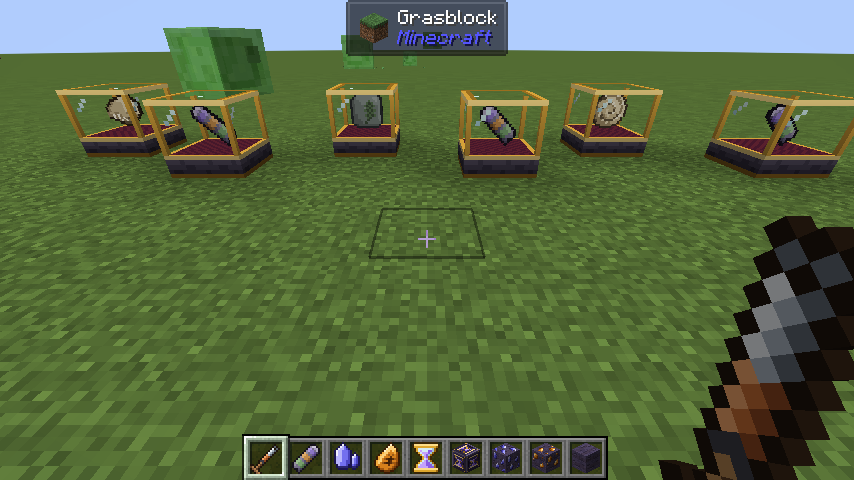
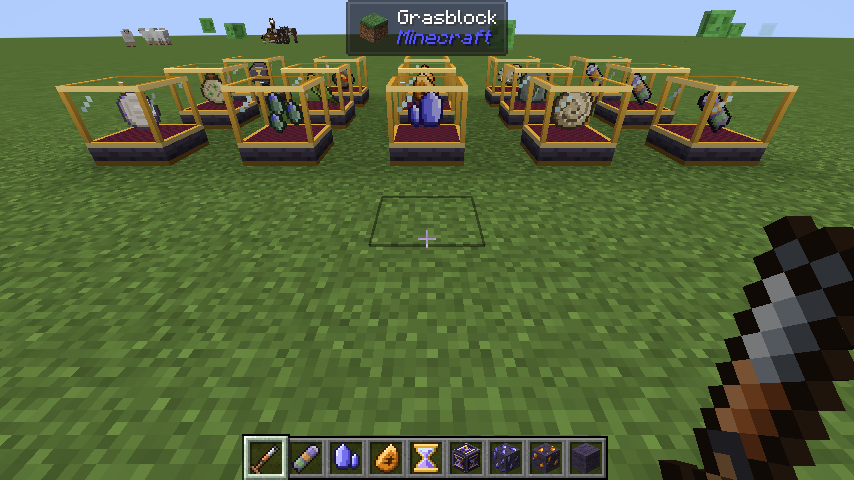
Museum: Prüfrunde 1 umgesetzt
Nur eigene Exponate (Tag strata_exhibit, Abfrage pro Versionsgruppe: getTags bzw.
ab 26.1 entityTags), fremde Item-Displays bleiben unberührt. Sammlung jetzt 15
Exponate (pro Epoche Bohrkern, Fossil, Rohstoff, Pflanze; dazu Calcitschuppe,
Sporenbeutel, Kodex-Fragment). Vollständiges Museum gibt dauerhaft +10 % Zeit in
allen Epochen. Rechtsklick mit leerer Hand auf eine leere Vitrine zeigt den Stand.

Claude-Session: https://claude.ai/code/session_01Ctsg8SxXVHQPATnSMNydJr

diff --git a/epochs/src/shared/java/dev/strata/epochs/SelfTest.java b/epochs/src/shared/java/dev/strata/epochs/SelfTest.java
@@ -758,7 +758,7 @@ final class SelfTest {
     private static int testMuseum(MinecraftServer server) {
         ServerLevel level = server.overworld();
         int cx = 8800, cz = 8800;
-        for (int k = 0; k < 12 && !cleanSite(level, cx, cz, 6); k++) cz += 160;
+        for (int k = 0; k < 12 && !cleanSite(level, cx, cz, 9); k++) cz += 160;
         int y = level.getHeight(net.minecraft.world.level.levelgen.Heightmap.Types.MOTION_BLOCKING_NO_LEAVES, cx, cz);
         var player = net.neoforged.neoforge.common.util.FakePlayerFactory.get(level,
                 new com.mojang.authlib.GameProfile(java.util.UUID.nameUUIDFromBytes("strata_museum_test".getBytes()), "strata_museum_test"));
@@ -770,10 +770,15 @@ final class SelfTest {
             exhibits.add(CoreSamples.create(StrataEpochs.id(e)));
             exhibits.add(new net.minecraft.world.item.ItemStack(FossilPrep.fossilFor(StrataEpochs.id(e)), 2));
         }
+        for (var item : List.of(EpochsContent.CRYSTAL_QUARTZ, EpochsContent.QUARTZ_THISTLE_SEEDS, EpochsContent.AMBER_SHARD,
+                EpochsContent.RESIN_FERN_SPORES, EpochsContent.EMBER_SHARD, EpochsContent.EMBER_TUBER,
+                EpochsContent.CALCITE_SCALE, EpochsContent.SPORE_SAC, EpochsContent.CODEX_FRAGMENT)) {
+            exhibits.add(new net.minecraft.world.item.ItemStack(item.get()));
+        }
         List<BlockPos> cases = new ArrayList<>();
         boolean placed = true;
         for (int i = 0; i < exhibits.size(); i++) {
-            BlockPos pos = new BlockPos(cx - 5 + 2 * i, y, cz);
+            BlockPos pos = new BlockPos(cx - 4 + 2 * (i % 5), y, cz - 2 + 2 * (i / 5));   // 5 x 3, alles in Reichweite
             level.setBlockAndUpdate(pos, EpochsContent.DISPLAY_CASE.get().defaultBlockState());
             cases.add(pos);
             var held = exhibits.get(i).copy();
@@ -785,18 +790,31 @@ final class SelfTest {
             }
         }
         boolean occupied = !DisplayCases.put(level, cases.get(0), new net.minecraft.world.item.ItemStack(EpochsContent.CRYSTAL_QUARTZ.get()));
-        boolean complete = requirements.size() == 6 && DisplayCases.present(level, cases.get(0)).size() == 6;
+        boolean complete = requirements.size() == 15 && DisplayCases.present(level, cases.get(0)).size() == 15;
+        double bonusBefore = Solidification.timeBonus(player);
         DisplayCases.checkMuseum(player, level, cases.get(0));
-        boolean codex = StrataAPI.hasNode(player, StrataEpochs.id("museum"));
+        boolean codex = StrataAPI.hasNode(player, StrataEpochs.id("museum"))
+                && Math.abs(Solidification.timeBonus(player) - bonusBefore - DisplayCases.MUSEUM_BONUS) < 1e-9;
+
+        // Fremdes Item-Display (ohne Tag) in einer leeren Vitrine: wird weder gefunden noch entfernt.
+        BlockPos spare = new BlockPos(cx + 9, y, cz);
+        level.setBlockAndUpdate(spare, EpochsContent.DISPLAY_CASE.get().defaultBlockState());
+        Transplanter.command(level, "summon minecraft:item_display " + (spare.getX() + 0.5) + " " + (spare.getY() + 0.6) + " "
+                + (spare.getZ() + 0.5) + " {Tags:[\"strata_foreign_test\"]}");
+        boolean foreign = DisplayCases.find(level, spare) == null && DisplayCases.take(level, spare).isEmpty()
+                && level.getEntitiesOfClass(net.minecraft.world.entity.Display.ItemDisplay.class,
+                        new net.minecraft.world.phys.AABB(spare)).size() == 1;
+        Transplanter.command(level, "kill @e[type=minecraft:item_display,tag=strata_foreign_test]");
+        level.setBlockAndUpdate(spare, net.minecraft.world.level.block.Blocks.AIR.defaultBlockState());
 
         var taken = DisplayCases.take(level, cases.get(0));
         boolean takeOut = CoreSamples.epochOf(taken).isPresent() && DisplayCases.find(level, cases.get(0)) == null
-                && DisplayCases.present(level, cases.get(1)).size() == 5;
+                && DisplayCases.present(level, cases.get(1)).size() == 14;
         // Abbau: Exponat fällt heraus, das Display verschwindet.
         BlockPos last = cases.get(cases.size() - 1);
         level.setBlockAndUpdate(last, net.minecraft.world.level.block.Blocks.AIR.defaultBlockState());
         var drops = level.getEntitiesOfClass(net.minecraft.world.entity.item.ItemEntity.class, new net.minecraft.world.phys.AABB(last).inflate(1.5));
-        boolean dropped = drops.stream().anyMatch(d -> d.getItem().is(FossilPrep.fossilFor(StrataEpochs.id("ash_age"))))
+        boolean dropped = drops.stream().anyMatch(d -> d.getItem().is(EpochsContent.CODEX_FRAGMENT.get()))
                 && DisplayCases.find(level, last) == null;
         drops.forEach(net.minecraft.world.entity.Entity::discard);
         for (BlockPos pos : cases) {
@@ -804,7 +822,7 @@ final class SelfTest {
             level.setBlockAndUpdate(pos, net.minecraft.world.level.block.Blocks.AIR.defaultBlockState());
         }
         level.getEntitiesOfClass(net.minecraft.world.entity.item.ItemEntity.class,
-                new net.minecraft.world.phys.AABB(cases.get(0)).inflate(14)).forEach(net.minecraft.world.entity.Entity::discard);
+                new net.minecraft.world.phys.AABB(cases.get(0)).inflate(20)).forEach(net.minecraft.world.entity.Entity::discard);
 
         List<String> missing = new ArrayList<>();
         for (String key : List.of("block.strata_epochs.display_case", "message.strata_epochs.museum.core",
@@ -812,10 +830,10 @@ final class SelfTest {
                 "message.strata_epochs.museum.complete", "message.strata_epochs.museum.occupied")) {
             for (String lang : List.of("de_de", "en_us")) if (!LANG.get(lang).contains(key)) missing.add(lang + ":" + key);
         }
-        boolean ok = placed && occupied && complete && codex && takeOut && dropped && missing.isEmpty();
-        StrataEpochs.LOG.info("[Strata-Test] Museum: ausgestellt={}, belegt={}, vollständig={} ({} Exponate), Kodex={}, "
-                + "herausgenommen={}, fällt heraus={}, Texte fehlen={} -> {}", placed, occupied, complete, requirements.size(),
-                codex, takeOut, dropped, missing, ok ? "OK" : "FEHLER");
+        boolean ok = placed && occupied && complete && codex && foreign && takeOut && dropped && missing.isEmpty();
+        StrataEpochs.LOG.info("[Strata-Test] Museum: ausgestellt={}, belegt={}, vollständig={} ({} Exponate), Kodex+Bonus={}, "
+                + "fremdes Display bleibt={}, herausgenommen={}, fällt heraus={}, Texte fehlen={} -> {}", placed, occupied,
+                complete, requirements.size(), codex, foreign, takeOut, dropped, missing, ok ? "OK" : "FEHLER");
         return ok ? 0 : 1;
     }
 

diff --git a/epochs/src/shared/java/dev/strata/epochs/DisplayCases.java b/epochs/src/shared/java/dev/strata/epochs/DisplayCases.java
@@ -29,14 +29,20 @@ import net.neoforged.neoforge.event.entity.player.PlayerInteractEvent;
  * <ul>
  *   <li>Rechtsklick mit einem Gegenstand stellt einen davon aus, Rechtsklick mit leerer Hand nimmt ihn heraus.</li>
  *   <li>Wird die Vitrine entfernt (Abbau, Explosion, Kolben), fällt das Exponat heraus.</li>
- *   <li>Museum: Liegen in Vitrinen im Umkreis von {@link #MUSEUM_RANGE} Blöcken von jeder Epoche mit Dimension
- *       ein Bohrkern und ihr Fossil, schaltet sich der Kodex-Knoten {@code strata_epochs:museum} frei.</li>
+ *   <li>Museum: Liegt in Vitrinen im Umkreis von {@link #MUSEUM_RANGE} Blöcken die ganze Sammlung, schaltet sich
+ *       der Kodex-Knoten {@code strata_epochs:museum} frei. Er gibt dauerhaft {@link #MUSEUM_BONUS} mehr Zeit in
+ *       allen Epochen. Die Sammlung: pro Epoche von Strata Epochs Bohrkern, Fossil, Rohstoff und Pflanze, dazu die
+ *       drei Mob-Trophäen (Calcitschuppe, Sporenbeutel, Kodex-Fragment) = 15 Exponate; Epochen aus Datapacks mit
+ *       eigener Dimension zählen mit ihrem Bohrkern.</li>
+ *   <li>Rechtsklick mit leerer Hand auf eine leere Vitrine zeigt den Stand.</li>
  * </ul>
  */
 public final class DisplayCases {
 
     public static final String TAG = "strata_exhibit";
     public static final int MUSEUM_RANGE = 12;
+    /** Zusatzzeit in allen Epochen mit vollständigem Museum (als Anteil, wie der Zeitanker). */
+    public static final double MUSEUM_BONUS = 0.10;
     /** Höhe des Exponats über der Unterkante der Vitrine (in der Glashaube). */
     private static final double HEIGHT = 0.62;
 
@@ -45,7 +51,7 @@ public final class DisplayCases {
     /** Ein Exponat, das zum Museum gehört: Beschriftung und Prüfung. */
     public record Exhibit(Component label, Predicate<ItemStack> matches) {}
 
-    /** Was das Museum braucht: pro Epoche mit Dimension ein Bohrkern und (falls bekannt) ihr Fossil. */
+    /** Was das Museum braucht (siehe Klassenbeschreibung). */
     public static List<Exhibit> requirements(MinecraftServer server) {
         List<Exhibit> list = new ArrayList<>();
         for (var e : StrataAPI.epochs(server).entrySet()) {
@@ -54,18 +60,33 @@ public final class DisplayCases {
             String id = e.getKey();
             list.add(new Exhibit(Component.translatable("message.strata_epochs.museum.core", CoreSamples.epochName(id)),
                     s -> CoreSamples.epochOf(s).map(id::equals).orElse(false)));
-            if (FossilPrep.epochOfFossil(new ItemStack(FossilPrep.fossilFor(id))).map(id::equals).orElse(false)) {
-                var fossil = FossilPrep.fossilFor(id);
-                list.add(new Exhibit(Component.translatable(fossil.getDescriptionId()), s -> s.is(fossil)));
+            if (!id.startsWith(StrataEpochs.MOD_ID + ":")) continue;
+            String name = id.substring(id.indexOf(':') + 1);
+            List<java.util.function.Supplier<? extends net.minecraft.world.item.Item>> items = switch (name) {
+                case "crystal_age" -> List.of(EpochsContent.AMMONITE_FOSSIL, EpochsContent.CRYSTAL_QUARTZ, EpochsContent.QUARTZ_THISTLE_SEEDS);
+                case "spore_age" -> List.of(EpochsContent.FERN_FOSSIL, EpochsContent.AMBER_SHARD, EpochsContent.RESIN_FERN_SPORES);
+                case "ash_age" -> List.of(EpochsContent.ANCIENT_SKULL, EpochsContent.EMBER_SHARD, EpochsContent.EMBER_TUBER);
+                default -> List.of();
+            };
+            for (var item : items) list.add(item(item.get()));
+        }
+        if (!list.isEmpty()) {
+            for (var trophy : List.of(EpochsContent.CALCITE_SCALE, EpochsContent.SPORE_SAC, EpochsContent.CODEX_FRAGMENT)) {
+                list.add(item(trophy.get()));
             }
         }
         return list;
     }
 
+    private static Exhibit item(net.minecraft.world.item.Item item) {
+        return new Exhibit(Component.translatable(item.getDescriptionId()), s -> s.is(item));
+    }
+
     /** Das Display in der Vitrine bei {@code pos} (oder null). */
     public static Display.ItemDisplay find(ServerLevel level, BlockPos pos) {
-        // Erkannt an der Lage (in der Vitrine); das Tag dient nur Befehlen, sein Abfragen heißt ab 26.3 anders.
-        var found = level.getEntitiesOfClass(Display.ItemDisplay.class, new AABB(pos));
+        // Nur eigene Exponate (Tag), fremde Deko-Displays an derselben Stelle bleiben unberührt.
+        var found = level.getEntitiesOfClass(Display.ItemDisplay.class, new AABB(pos),
+                d -> dev.strata.epochs.mc.EntityTags.has(d, TAG));
         return found.isEmpty() ? null : found.get(0);
     }
 
@@ -111,7 +132,8 @@ public final class DisplayCases {
     /** Welche Museums-Exponate liegen in Vitrinen um {@code center}? Gibt die erfüllten Einträge zurück. */
     public static List<Exhibit> present(ServerLevel level, BlockPos center) {
         List<ItemStack> shown = new ArrayList<>();
-        for (var d : level.getEntitiesOfClass(Display.ItemDisplay.class, new AABB(center).inflate(MUSEUM_RANGE))) {
+        for (var d : level.getEntitiesOfClass(Display.ItemDisplay.class, new AABB(center).inflate(MUSEUM_RANGE),
+                d -> dev.strata.epochs.mc.EntityTags.has(d, TAG))) {
             if (level.getBlockState(d.blockPosition()).is(EpochsContent.DISPLAY_CASE.get())) shown.add(d.getSlot(0).get());
         }
         List<Exhibit> result = new ArrayList<>();
@@ -147,6 +169,10 @@ public final class DisplayCases {
         if (!(event.getLevel() instanceof ServerLevel level) || !(event.getEntity() instanceof ServerPlayer player)) return;
         BlockPos pos = event.getPos();
         if (held.isEmpty()) {
+            if (find(level, pos) == null) {             // leere Vitrine: nur den Stand zeigen
+                checkMuseum(player, level, pos);
+                return;
+            }
             ItemStack taken = take(level, pos);
             if (!taken.isEmpty() && !player.getInventory().add(taken)) {
                 level.addFreshEntity(new ItemEntity(level, player.getX(), player.getY(), player.getZ(), taken));

diff --git a/epochs/src/shared/java/dev/strata/epochs/Solidification.java b/epochs/src/shared/java/dev/strata/epochs/Solidification.java
@@ -114,10 +114,11 @@ public final class Solidification {
         return false;
     }
 
-    /** Zusatzzeit als Anteil: Zeitanker +100 %, analysierter Bohrkern beim Betreten +25 %. */
+    /** Zusatzzeit als Anteil: Zeitanker +100 %, analysierter Bohrkern beim Betreten +25 %, vollständiges Museum +10 %. */
     public static double timeBonus(ServerPlayer player) {
         double anchor = hasTimeAnchor(player) ? 1.0 : 0.0;
-        return anchor + player.getData(EpochsContent.VISIT.get()).bonus();
+        double museum = StrataAPI.hasNode(player, StrataEpochs.id("museum")) ? DisplayCases.MUSEUM_BONUS : 0.0;
+        return anchor + museum + player.getData(EpochsContent.VISIT.get()).bonus();
     }
 
     /** Stand der Uhr: verbleibender Anteil der erlaubten Zeit (0..1) und Phase. */

diff --git a/epochs/src/break_block_event/java/dev/strata/epochs/mc/EntityTags.java b/epochs/src/break_block_event/java/dev/strata/epochs/mc/EntityTags.java
@@ -1,0 +1,13 @@
+package dev.strata.epochs.mc;
+
+import net.minecraft.world.entity.Entity;
+
+/** Befehls-Tags einer Entity ({@code /tag}); die Abfrage heißt ab 26.1 {@code entityTags()} statt {@code getTags()}. */
+public final class EntityTags {
+
+    private EntityTags() {}
+
+    public static boolean has(Entity entity, String tag) {
+        return entity.entityTags().contains(tag);
+    }
+}

diff --git a/epochs/src/break_event/java/dev/strata/epochs/mc/EntityTags.java b/epochs/src/break_event/java/dev/strata/epochs/mc/EntityTags.java
@@ -1,0 +1,13 @@
+package dev.strata.epochs.mc;
+
+import net.minecraft.world.entity.Entity;
+
+/** Befehls-Tags einer Entity ({@code /tag}); die Abfrage heißt ab 26.1 {@code entityTags()} statt {@code getTags()}. */
+public final class EntityTags {
+
+    private EntityTags() {}
+
+    public static boolean has(Entity entity, String tag) {
+        return entity.getTags().contains(tag);
+    }
+}

diff --git a/README.md b/README.md
@@ -105,9 +105,10 @@ Je nach Epoche bekommst du einen Ammonit, einen Farnabdruck oder einen Urzeitsch
 Nur natürliche Blöcke (Tag `strata_epochs:transplantable`) werden verändert, Bauten bleiben. Er wirkt nur in der Oberwelt. Radius, Tempo und Anzahl stehen in der Config (`[transplanter]`), die Landschaft im Datapack (Feld `landscape` der Epoche).
 
 **Museum der Erdgeschichte:** Die **Vitrine** (2 Stück aus 5 Glas, 2 Zeitgestein und 1 Gold) stellt einen Gegenstand aus: Rechtsklick mit dem Gegenstand legt einen hinein, er schwebt in der Glashaube und dreht sich zum Betrachter. Rechtsklick mit leerer Hand nimmt ihn heraus, beim Abbauen fällt er heraus.
-- Liegen im Umkreis von 12 Blöcken von jeder Epoche **ein Bohrkern und ihr Fossil** in Vitrinen (bei Strata Epochs 6 Exponate), ist das Museum vollständig: Kodex-Knoten `museum` mit Advancement.
-- Beim Ausstellen zeigt die Aktionsleiste den Stand („4 von 6 Exponaten – es fehlt z. B. Farnabdruck“).
-- Epochen aus Datapacks mit eigener Dimension zählen mit ihrem Bohrkern dazu.
+- **Die Sammlung** (15 Exponate): von jeder Epoche Bohrkern, Fossil, Rohstoff (Kristallquarz, Bernstein, Glutsplitter) und Pflanze (Samen, Sporen, Knolle), dazu die Mob-Trophäen Calcitschuppe, Sporenbeutel und Kodex-Fragment. Epochen aus Datapacks mit eigener Dimension zählen mit ihrem Bohrkern dazu.
+- Liegt alles in Vitrinen im Umkreis von 12 Blöcken, ist das Museum vollständig: Kodex-Knoten `museum` mit Advancement und **dauerhaft 10 % mehr Zeit** in allen Epochen.
+- Beim Ausstellen und per Rechtsklick mit leerer Hand auf eine leere Vitrine zeigt die Aktionsleiste den Stand („9 von 15 Exponaten – es fehlt z. B. Sporenbeutel“).
+- Nur eigene Exponate zählen; fremde Item-Displays (Deko, Karten) an derselben Stelle bleiben unberührt.
 
 ![Museum der Erdgeschichte: sechs Vitrinen](docs/screenshots/museum/vitrinen_1.21.1.png)
 
@@ -148,7 +149,7 @@ Kodex-Knoten werden automatisch freigeschaltet:
 - `first_analysis` nach der ersten Kernanalyse
 - `first_transplant` nach der ersten Transplantation
 - `sealed_rift` beim ersten versiegelten Zeitriss
-- `museum`, wenn das Museum der Erdgeschichte vollständig ist
+- `museum`, wenn das Museum der Erdgeschichte vollständig ist (+10 % Zeit in allen Epochen)
 
 ## Strata Bridge: Anbindung an andere Mods
 
